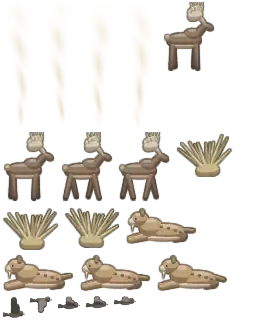
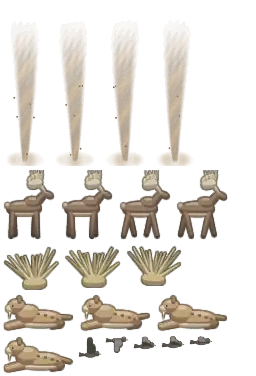
Backdrops: Nebula Shipyard's ambient trimmed to pass the frame-time gate; Sabre Savanna's dust devil repainted and moved into your half (review 3b)
Nebula Shipyard missed the frame-time gate on the mean (+1.10 ms a frame against 1 ms): its 9 blinking
lights and 6 spark points (16.2 sparks a second) were the heaviest ambient of the 24 scenes. It keeps
one welding point on the hull seam (3.6 sparks a second), the rig by the hull ring, two of the four
girder lights, the bridge tower's lamp and one pad lamp (layers.json, and the same trim in cosmic.py).
Five alternating 60 s pairs inside the quiet lock: +0.35 ms mean, +0.38 ms median, draw calls equal.

Sabre Savanna's dust devil did not read (pale wisps, mean visible alpha 0.12, mostly in the seam band,
and dropped on Lite as the fifth moving sprite). Track A's painter now draws a cartoon funnel: spiral
bands, a dust cloud at the foot, specks of grit, darker than the plain and under the 40% saturation
line, 1.3 times the old frames. Its path runs with the wind across your half, and it is the first
sprite, so Lite keeps it. Re-rendered with backdrop.py (the strips came out byte-identical; the props
atlas is 13.2 KB at q58). sizes.py records the devil frames' visible alpha (0.366) in checks.json and
backdropScenes.test.ts holds it at 0.3 or more, with the devil first and its path in your half.

Claude-Session: https://claude.ai/code/session_01NfGD2JrsQPPo6oeDJ8LLwf

diff --git a/src/visuals/test/backdropScenes.test.ts b/src/visuals/test/backdropScenes.test.ts
@@ -19,7 +19,7 @@ import { WORLD } from '../style';
 
 const LAYERS_JSON = import.meta.glob('/public/art/backdrops/**/layers.json', { import: 'default', eager: true }) as Record<string, unknown>;
 const WEBP = import.meta.glob('/public/art/backdrops/**/*.webp', { query: '?inline', import: 'default', eager: true }) as Record<string, string>;
-const CHECKS = import.meta.glob('/art/blender/world/scenes/checks.json', { import: 'default', eager: true }) as Record<string, Record<string, { sizes: Record<string, number>; total: number; rule: Record<string, number> }>>;
+const CHECKS = import.meta.glob('/art/blender/world/scenes/checks.json', { import: 'default', eager: true }) as Record<string, Record<string, { sizes: Record<string, number>; total: number; rule: Record<string, number>; signatureAlpha?: number }>>;
 
 /** Bytes of a file inlined as a base64 data URL. */
 function bytes(dataUrl: string): number {
@@ -93,6 +93,20 @@ describe('scene art on disk (PLAN 2b)', () => {
       for (const [name, share] of Object.entries(c.rule)) expect(share, `${age}.${scene} ${name}`).toBeLessThanOrEqual(name === 'thumb.webp' ? 0.03 : 0.02);
       expect(Object.keys(c.rule)).toEqual(expect.arrayContaining(['far.webp', 'mid.webp', 'thumb.webp']));
     }
+  });
+
+  it("keeps Sabre Savanna's dust devil readable and in your half, on Lite too (review 3b)", () => {
+    // its frames' visible pixels average at least 0.3 alpha (scenes/sizes.py measures the shipped atlas; the first
+    // devil averaged 0.12 and did not show on the plain)
+    const c = (Object.values(CHECKS)[0] ?? {})['stone.sabre_savanna'];
+    expect(c?.signatureAlpha, 'run python3 art/blender/world/scenes/sizes.py --write').toBeGreaterThanOrEqual(0.3);
+    const data = parseScene(LAYERS_JSON[`/public/${sceneDir('stone', 'sabre_savanna')}layers.json`], 'stone', 'sabre_savanna');
+    const moving = (data?.props?.sprites ?? []).filter((x) => x.kind !== 'emit');
+    const devil = moving[0];
+    // first among the moving sprites, so Lite (the first three) keeps the signature
+    expect(devil?.kind === 'path' && devil.group[0]?.frames[0]).toBe('devil_0');
+    // shown only on your half of the strip (it crossed the seam band before)
+    if (devil?.kind === 'path') for (const [, x, , a] of devil.keys) if (a > 0) expect(x).toBeLessThan(1000);
   });
 });
 

diff --git a/art/blender/world/scenes/cosmic.py b/art/blender/world/scenes/cosmic.py
@@ -659,7 +659,8 @@ def ns_far(st, P):
     for k in range(12):
         x = x0 + (x1 - x0) * k / 11
         gl.sphere((x, dy - 35, gz - 4), 1.6, cuts=2)
-    for k in range(4):
+    # two of the four docking lights blink (review 3b: the scene's ambient was the costliest of the Epics)
+    for k in (0, 2):
         st.amb("blink", "bd.light", (x0 + (x1 - x0) * (k + 0.5) / 4, dy - 35, gz - 4), "far", period=1300 + k * 230, tint=0x9CF0D4)
     # 3. the half-built ark (the signature). The bow is plated: a lilac-grey hull with plate seams and two
     # violet bands, rows of lit windows, a dorsal spine with the bridge tower, cradle struts under it. The
@@ -732,9 +733,11 @@ def ns_far(st, P):
     for (xx, a_deg) in ((hoops[-1] - 4, 160), (hoops[-2] - 4, 150), (hoops[-1] - 6, 205)):
         p_ = _hoop_point(xx, math.radians(a_deg))
         ghd.blob((p_[0], p_[1] - 1.0, p_[2]), (13, 1.6, 9), p=5, cuts=2, rot=(a_deg - 180, 0, NS_HOOP_YAW * 0.5))
-    for (xx, a_deg) in ((mid_x - 2, 165), (mid_x - 2, 212), (hoops[-3], 172)):
+    for k, (xx, a_deg) in enumerate(((mid_x - 2, 165), (mid_x - 2, 212), (hoops[-3], 172))):
         p_ = _hoop_point(xx, math.radians(a_deg))
-        st.amb("emit", "fx.p.spark", (p_[0], p_[1] - 3, p_[2]), rate=2.4, speed=26, scale=0.6, tint=0xFFF2C8, alpha=0.95, life=500)
+        # one welding point throws sparks, a little brisker (review 3b: three were the frame time's cost)
+        if k == 0:
+            st.amb("emit", "fx.p.spark", (p_[0], p_[1] - 3, p_[2]), rate=3.6, speed=26, scale=0.6, tint=0xFFF2C8, alpha=0.95, life=500)
         st.light((p_[0], p_[1] - 5, p_[2]), 3)
     for w in wins[:3]:
         st.light(w, 3)
@@ -752,12 +755,11 @@ def ns_far(st, P):
         gd.blob((x - L * 0.25, y - 2, z + r * 0.9), (L * 0.12, r * 0.8, r * 0.5), p=3.0)
         gd2.blob((x + L * 0.1, y - r * 1.1, z), (L * 0.3, 0.6, r * 0.25), p=3.0)
         pt.g(NS["mint_lt"], glow=True).blob((x - L / 2 - 2, y, z), (3, r * 0.6, r * 0.5), p=2.0)
-        st.amb("blink", "bd.light", (x + L / 2, y - r, z), "far", period=1700, tint=0xF6C6E4)
     pt.flush(st)
 
 
-def _welding_rig(pt, st, x, y, z, flip=1):
-    """A welding rig on the deck: a jointed robot arm on a turret base, its torch throwing sparks."""
+def _welding_rig(pt, st, x, y, z, flip=1, sparks=True):
+    """A welding rig on the deck: a jointed robot arm on a turret base, its torch throwing sparks (`sparks`)."""
     gm, gm2 = pt.g(NS["metal"], outline=0.5), pt.g(NS["frame_dk"], outline=0.4)
     cyl(gm2, (x, y, z), (x, y, z + 6), 8, bevel=0.6, segs=16)
     gm.capsule((x, y, z + 6), (x + flip * 10, y, z + 30), 2.6, 2.0)
@@ -765,7 +767,8 @@ def _welding_rig(pt, st, x, y, z, flip=1):
     gm2.sphere((x + flip * 10, y, z + 30), 3.0)
     tip = (x + flip * 31, y, z + 20)
     pt.g(NS["mint_lt"], glow=True).sphere(tip, 1.2)
-    st.amb("emit", "fx.p.spark", tip, rate=3.0, speed=22, scale=0.55, tint=0xFFF2C8, alpha=0.95, life=450)
+    if sparks:
+        st.amb("emit", "fx.p.spark", tip, rate=3.0, speed=22, scale=0.55, tint=0xFFF2C8, alpha=0.95, life=450)
     st.light(tip, 3)
 
 
@@ -811,8 +814,9 @@ def ns_mid(st, P):
         (gp if k % 2 else gp2).capsule((x - 10, y, z + 7), (x + 10, y, z + 7), 7, 7)
         pt.g(NS["band"], outline=0.2).blob((x, y - 6.6, z + 7), (2.4, 0.6, 6.8), p=3)
     # 3. welding rigs at the deck edge
+    # only the rig by the hull ring throws sparks (review 3b: the scene's ambient was the costliest of the Epics)
     for (x, f) in ((346, -1), (652, 1), (1000, 1)):
-        _welding_rig(pt, st, x, 60, 40, f)
+        _welding_rig(pt, st, x, 60, 40, f, sparks=x == 346)
     # 4. a low goliath crane straddling a stack of hull plates (x 430-630; kept under the ark's keel line):
     # lattice legs, the top beam, its trolley lowering a plate
     gpc, gpc2 = pt.g(NS["frame"], outline=0.5), pt.g(NS["frame_dk"], outline=0.4)
@@ -849,7 +853,8 @@ def ns_mid(st, P):
     _shuttle(0)(kit.StaticRig(pt, (px_ + 4, 96, 43)))
     for x in (px_ - 64, px_ + 64):
         pt.g(NS["metal"], outline=0.4).capsule((x, 110, 40), (x, 110, 120), 1.0)
-        st.amb("blink", "bd.light", (x, 110, 122), "mid", period=1500, tint=0x9CF0D4)
+        if x < px_:
+            st.amb("blink", "bd.light", (x, 110, 122), "mid", period=1500, tint=0x9CF0D4)
     pt.flush(st)
 
 

diff --git a/art/blender/world/scenes/fauna.py b/art/blender/world/scenes/fauna.py
@@ -716,21 +716,53 @@ def giant_deer(coat="#8E6E52", coat_dk="#6E5440", belly="#C8B090", antler="#D8C8
     return build
 
 
-def dust_devil(i, w=46, h=150, color=(0.86, 0.78, 0.62)):
-    """A dust devil (PaintedProp frame i of 4): a soft twisting funnel of dust, wide and faint at the top,
-    a dense swirl at the foot, the twist advancing a quarter turn per frame."""
+def dust_devil(i, w=46, h=164, light=(0.74, 0.64, 0.50), dark=(0.50, 0.41, 0.31)):
+    """A dust devil (PaintedProp frame i of 4): a cone of swirling dust, narrow at the foot and widening upward,
+    light and dark spiral bands that climb a quarter turn per frame, a dust cloud round the foot, the top thinning
+    out into wisps, and a few specks of grit carried round. Review 3b: the first version (pale wisps, mean alpha
+    0.12, lighter than the hazed plain) did not read; this one is darker than the plain and keeps its colours
+    under the A11 saturation line (40%)."""
     import numpy as np
+
+    def smooth(x):
+        x = np.clip(x, 0, 1)
+        return x * x * (3 - 2 * x)
+
     yy, xx = np.mgrid[0:h, 0:w].astype(np.float32)
-    v = 1.0 - yy / (h - 1)                      # 0 at the foot, 1 at the top
-    width = 0.12 + 0.36 * v ** 1.3
-    sway = 0.06 * np.sin(v * 5.0 + i * 1.57)
-    u = (xx / (w - 1) - 0.5 - sway) / np.maximum(0.02, width)
-    body = np.clip(1.0 - np.abs(u), 0, 1) ** 1.4
-    bands = 0.6 + 0.4 * np.sin(v * 22.0 - i * 1.57 + u * 2.4)
-    a = body * bands * (0.35 + 0.65 * (1 - v)) * np.clip(v * 8, 0, 1) * np.clip((1 - v) * 3 + 0.2, 0, 1)
+    v = 1.0 - yy / (h - 1)                         # 0 at the foot, 1 at the top
+    half = 0.07 + 0.36 * v ** 0.9                   # half-width as a fraction of the frame
+    sway = 0.05 * np.sin(v * 4.2 + i * np.pi / 2) * v
+    u = (xx / (w - 1) - 0.5 - sway) / np.maximum(0.03, half)
+    body = smooth((1.0 - np.abs(u)) / 0.55)         # a full body with a soft rim
+    band = 0.5 + 0.5 * np.sin(2 * np.pi * (v * 5.5 - u * 0.45 - i * 0.25))
+    a = body * (0.55 + 0.45 * (1 - v)) * (0.7 + 0.3 * band) * smooth((0.95 - v) / 0.35) * smooth(v / 0.04)
+    # wisps breaking off near the top
+    wisp = 0.5 + 0.5 * np.sin(xx * 0.9 + yy * 0.35 + i * 1.3) * np.sin(yy * 0.21 - i * 0.8)
+    a *= 1.0 - smooth((v - 0.45) / 0.3) * 0.45 * (1.0 - wisp)
+    # the dust cloud round the foot: low, wide, lumpy
+    cu = (xx / (w - 1) - 0.5) / 0.47
+    cv = (v - 0.035) / 0.06
+    cloud = smooth(1 - (cu ** 2 + cv ** 2)) * (0.75 + 0.25 * np.sin(cu * 7.0 + i * np.pi / 2))
+    a = np.maximum(a, cloud * 0.6)
+    k = band * (0.35 + 0.65 * body)                 # light bands on the body, dark in the folds
+    rgb = np.array(dark, np.float32) * (1 - k[..., None]) + np.array(light, np.float32) * k[..., None]
+    rgb = np.where((cloud * 0.6 > a * 0.99)[..., None], np.array(light, np.float32) * 0.96, rgb)
     out = np.zeros((h, w, 4), np.float32)
-    out[..., 0], out[..., 1], out[..., 2] = color
-    out[..., 3] = np.clip(a * 0.62, 0, 1)
+    out[..., :3] = rgb
+    out[..., 3] = np.clip(a * 0.92, 0, 1)
+    # specks of grit carried round the lower funnel (the far side hidden in the dust)
+    rng = np.random.RandomState(11)
+    for _ in range(8):
+        ang = rng.uniform(0, 2 * np.pi) + i * np.pi / 2
+        hv = rng.uniform(0.05, 0.55)
+        rad = (0.07 + 0.36 * hv ** 0.9) * (w - 1) * 1.05
+        cx = (w - 1) * 0.5 + np.cos(ang) * rad
+        cy = (h - 1) * (1 - hv) - np.sin(ang) * 2.0
+        if np.sin(ang) < -0.2:
+            continue
+        m = np.clip(1.4 - np.sqrt((xx - cx) ** 2 + (yy - cy) ** 2), 0, 1)
+        out[..., :3] = out[..., :3] * (1 - m[..., None]) + np.array(dark, np.float32) * 0.8 * m[..., None]
+        out[..., 3] = np.maximum(out[..., 3], m * 0.9)
     return out
 
 

diff --git a/art/blender/world/scenes/stone.py b/art/blender/world/scenes/stone.py
@@ -902,9 +902,15 @@ def ss_props():
         Prop("grass", "mid", _grass_clump, [_grass_sway(f) for f in range(3)], (60, 40, 3), g1[1]),
         Prop("deer", "mid", fauna.giant_deer(size=1.15), [fauna.walk4_pose(f, swing=14, bob=0.5, head=2.0) for f in range(4)], (70, 56, 3), SS_DEER_Y),
         Prop("vulture", "far", vulture, [fauna.bird_pose(f) for f in range(5)], (50, 26, 26), ring[0][2]),
-        PaintedProp("devil", "far", lambda i: fauna.dust_devil(i, w=36, h=126), 4, ax=0.5, ay=1.0, ppl=0.9),
+        PaintedProp("devil", "far", lambda i: fauna.dust_devil(i, w=46, h=164), 4, ax=0.5, ay=1.0, ppl=0.9),
     ]
     sprites = [
+        # the signature: a dust devil crosses the plain every 40 s, with the lane's wind (+x) across your half; first
+        # in the list, so Lite (the first three moving sprites) keeps it (review 3b: it was all but invisible, and
+        # mostly in the seam band)
+        {"kind": "path", "layer": "far", "fps": 8, "periodS": 40, "face": "fixed",
+         "keys": [[0, 240, SS_DEVIL_Y, 0], [3, 300, SS_DEVIL_Y, 1], [20, 860, SS_DEVIL_Y, 1], [23, 920, SS_DEVIL_Y, 0], [40, 920, SS_DEVIL_Y, 0]],
+         "group": [{"frames": [f"devil_{i}" for i in range(4)]}]},
         {"kind": "loop", "layer": "mid", "frames": ["cat_0", "cat_0", "cat_1", "cat_2", "cat_3", "cat_1"], "fps": 3, "at": cat},
         {"kind": "loop", "layer": "mid", "frames": [f"grass_{i}" for i in range(3)], "fps": 3, "pingpong": True, "at": g1},
         {"kind": "path", "layer": "mid", "fps": 3, "periodS": 120,
@@ -913,10 +919,6 @@ def ss_props():
         {"kind": "path", "layer": "far", "fps": 7, "periodS": 20, "keys": ring,
          "group": [{"frames": ["vulture_4", "vulture_4", "vulture_4", "vulture_0", "vulture_1", "vulture_2", "vulture_3"]},
                    {"frames": ["vulture_4", "vulture_4", "vulture_0", "vulture_1", "vulture_2", "vulture_3", "vulture_4"], "dx": -30, "dy": 10, "phase": 3}]},
-        # the signature: a dust devil crosses the plain every 40 s
-        {"kind": "path", "layer": "far", "fps": 8, "periodS": 40, "face": "fixed",
-         "keys": [[0, 1480, SS_DEVIL_Y, 0], [3, 1400, SS_DEVIL_Y, 1], [20, 760, SS_DEVIL_Y, 1], [23, 680, SS_DEVIL_Y, 0], [40, 680, SS_DEVIL_Y, 0]],
-         "group": [{"frames": [f"devil_{i}" for i in range(4)]}]},
     ]
     return plist, sprites
 

diff --git a/art/blender/world/scenes/sizes.py b/art/blender/world/scenes/sizes.py
@@ -44,6 +44,26 @@ def rule_share(path, min_alpha=0.5):
 
 FORMAT1 = ("layers.json", "far.webp", "mid.webp", "thumb.webp")
 
+# Signature props drawn as soft dust or mist must still read: the least mean alpha of their frames' visible pixels
+# (review 3b: Sabre Savanna's first dust devil averaged 0.12 and did not show on the plain). The unit test holds
+# the recorded value to its floor.
+SIGNATURE_FRAMES = {"stone.sabre_savanna": "devil_"}
+
+
+def frames_alpha(d, prefix):
+    """The least mean alpha of the visible pixels (alpha over 8/255) of a scene's props frames named `prefix*`."""
+    doc = json.load(open(os.path.join(d, "layers.json")))
+    frames = {k: v for k, v in (doc.get("props") or {}).get("frames", {}).items() if k.startswith(prefix)}
+    if not frames:
+        return None
+    atlas = np.asarray(Image.open(os.path.join(d, doc["props"]["image"])).convert("RGBA"), dtype=np.float32) / 255.0
+    out = []
+    for x, y, w, h, *_ in frames.values():
+        al = atlas[y:y + h, x:x + w, 3]
+        vis = al > 8 / 255
+        out.append(float(al[vis].mean()) if vis.any() else 0.0)
+    return round(min(out), 3)
+
 
 def scenes():
     for age in AGES:
@@ -85,6 +105,8 @@ def main():
         if total > TOTAL:
             fails.append(f"{key} total {total} B > {TOTAL} B")
         checks[key] = {"sizes": sizes, "total": total, "rule": rule}
+        if key in SIGNATURE_FRAMES:
+            checks[key]["signatureAlpha"] = frames_alpha(d, SIGNATURE_FRAMES[key])
         cell = lambda n: f"{sizes[n] / 1024:6.1f}K" if n in sizes else "      -"  # noqa: E731
         rr = "/".join(f"{rule[n] * 100:.2f}" if n in rule else "-" for n in ("far.webp", "mid.webp", "back.webp", "thumb.webp"))
         print(f"{key:28s} {cell('back.webp')} {cell('far.webp')} {cell('mid.webp')} {cell('props.webp')} {cell('thumb.webp')} "
